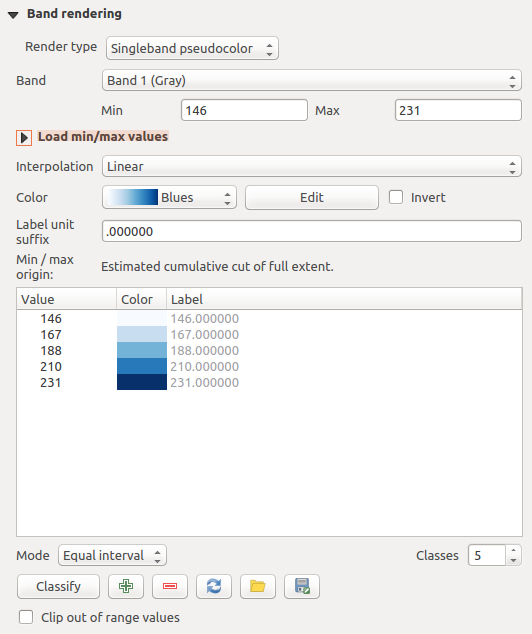
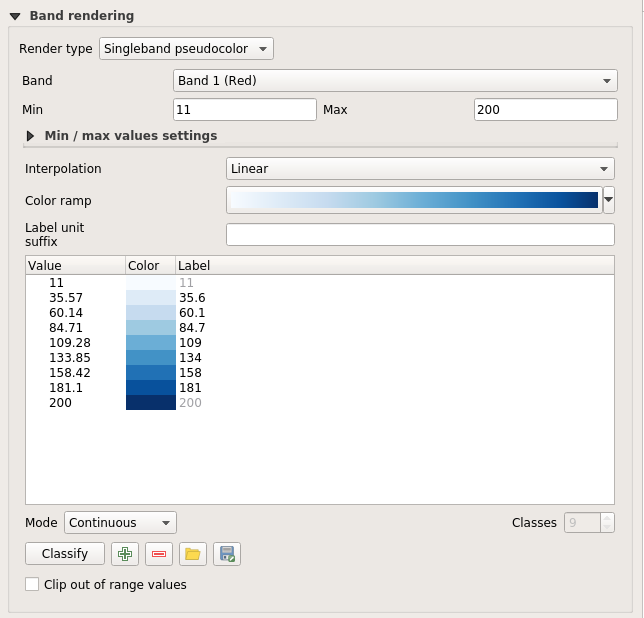
Save and restore color ramp for singleband
Save and restore color ramp used for singleband pseudocolor rendering

fix #1497

Changed region(s): [[0.0, 0.0, 1.0, 1.0]]

diff --git a/source/docs/user_manual/working_with_raster/raster_properties.rst b/source/docs/user_manual/working_with_raster/raster_properties.rst
@@ -244,42 +244,57 @@ Three types of color interpolation are available:
 #. Linear
 #. Exact
 
+You can choose the band on which QGIS will render the layer, then define
+a :guilabel:`Min` and :guilabel:`Max` value.
 
-In the left block, the button |signPlus| :sup:`Add values manually` adds a value
-to the individual color table. The button |signMinus| :sup:`Remove selected row`
-deletes a value from the individual color table, and the
-|arrowDown| :sup:`Sort colormap items` button sorts the color table according
-to the pixel values in the value column. Double clicking on the value column
-lets you insert a specific value. Double clicking on the color column opens the dialog
-:guilabel:`Change color`, where you can select a color to apply on that value.
-Further, you can also add labels for each color, but this value won't be displayed
-when you use the identify feature tool.
-You can also click on the button |draw| :sup:`Load color map from band`,
-which tries to load the table from the band (if it has any). And you can use the
-buttons |fileOpen| :sup:`Load color map from file` or |fileSaveAs|
-:sup:`Export color map to file` to load an existing color table or to save the
-defined color table for other sessions.
-
-
-In the right block, :guilabel:`Generate new color map` allows you to create newly
-categorized color maps. For the :guilabel:`Classification mode` |selectString|
-'Equal interval', you only need to select the :guilabel:`number of classes`
-|selectNumber| and press the button :guilabel:`Classify`. You can invert the colors
-of the color map by clicking the |checkbox| :guilabel:`Invert`
-checkbox. In the case of the :guilabel:`Mode` |selectString| 'Continuous', QGIS creates
-classes automatically depending on the :guilabel:`Min` and :guilabel:`Max`.
 Defining :guilabel:`Min/Max` values can be done with the help of the :guilabel:`Load min/max values` section.
 A lot of images have a few very low and high data. These outliers can be eliminated
 using the |radioButtonOn| :guilabel:`Cumulative count cut` setting. The standard
 data range is set from 2% to 98% of the data values and can be adapted manually.
+
 With this setting, the gray character of the image can disappear.
-With the scaling option |radioButtonOff| :guilabel:`Min/max`, QGIS creates a color
+With the scaling option |radioButtonOn| :guilabel:`Min/max`, QGIS creates a color
 table with all of the data included in the original image (e.g., QGIS creates a
 color table with 256 values, given the fact that you have 8 bit bands).
-You can also calculate your color table using the |radioButtonOff| :guilabel:`Mean +/-
+You can also calculate your color table using the |radioButtonOn| :guilabel:`Mean +/-
 standard deviation x` |selectNumber|.
 Then, only the values within the standard deviation or within multiple standard deviations
 are considered for the color table.
+
+In the next part, :guilabel:`Interpolation` allows you to choose which
+interpolation mode to use between:
+
+* Discrete (a <= symbol appears in the value column);
+* Linear;
+* Exact (an equal symbol appears in the Value column);
+
+The :guilabel:`Color ramp` drop down list lists the color ramp in your QGIS. You
+can add a new one, edit or save the one you changed. The name of the color ramp
+will be saved in the configuration and in the QML files.
+
+The :guilabel:`Label unit suffix` is a label added after the value in the
+legend.
+
+For the classification :guilabel:`Mode` |selectString| 'Equal interval', you
+only need to select the :guilabel:`number of classes` |selectNumber| and press
+the button :guilabel:`Classify`.
+In the case of the :guilabel:`Mode` |selectString| 'Continuous', QGIS creates
+classes automatically depending on the :guilabel:`Min` and :guilabel:`Max`.
+
+The button |signPlus| :sup:`Add values manually` adds a value
+to the individual color table. The button |signMinus| :sup:`Remove selected row`
+deletes a value from the individual color table. Double clicking on the value column
+lets you insert a specific value. Double clicking on the color column opens the dialog
+:guilabel:`Change color`, where you can select a color to apply on that value.
+Further, you can also add labels for each color, but this value won't be displayed
+when you use the identify feature tool.
+
+You can use the buttons |fileOpen| :sup:`Load color map from file` or |fileSaveAs|
+:sup:`Export color map to file` to load an existing color table or to save the
+defined color table for other sessions.
+
+The |checkbox| :guilabel:`Clip out of range` allows QGIS to not render pixel greater than
+the :guilabel:`Max` value.
 
 Color rendering
 ---------------
